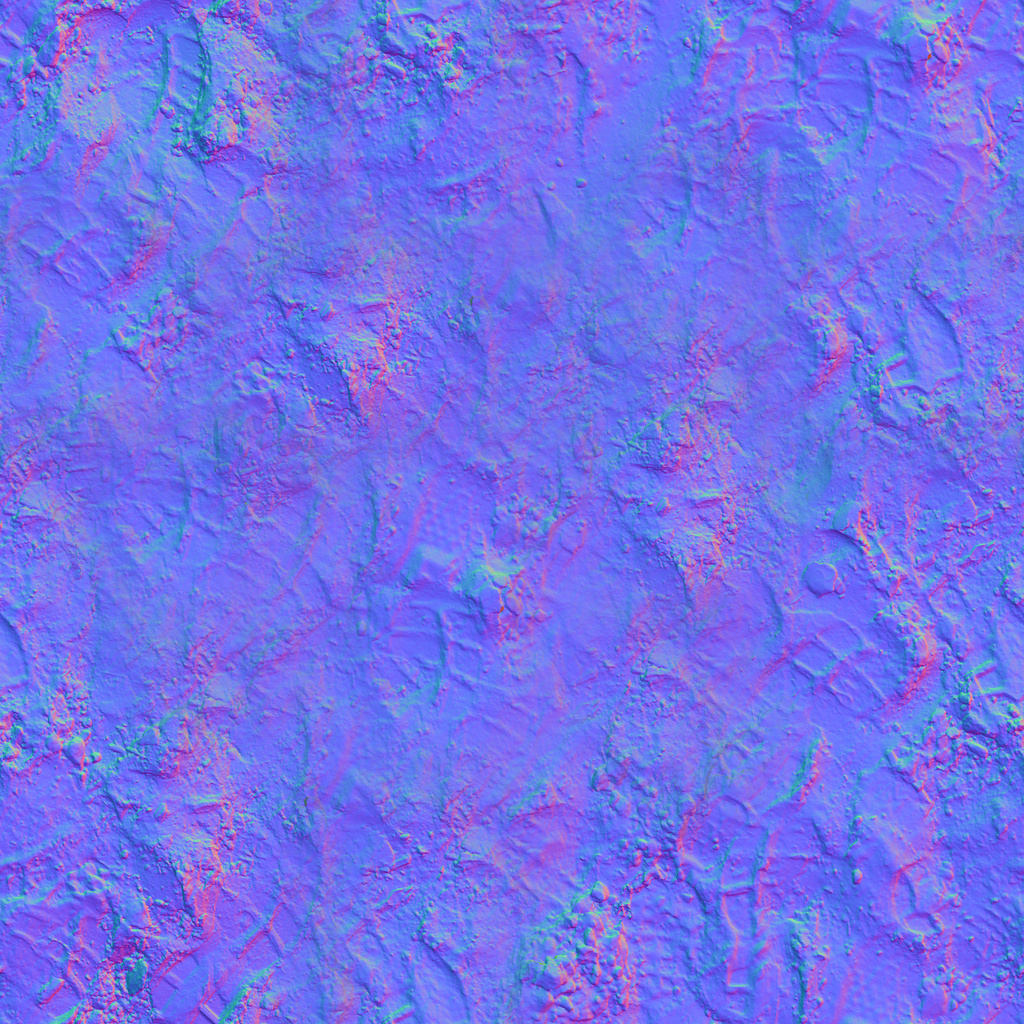
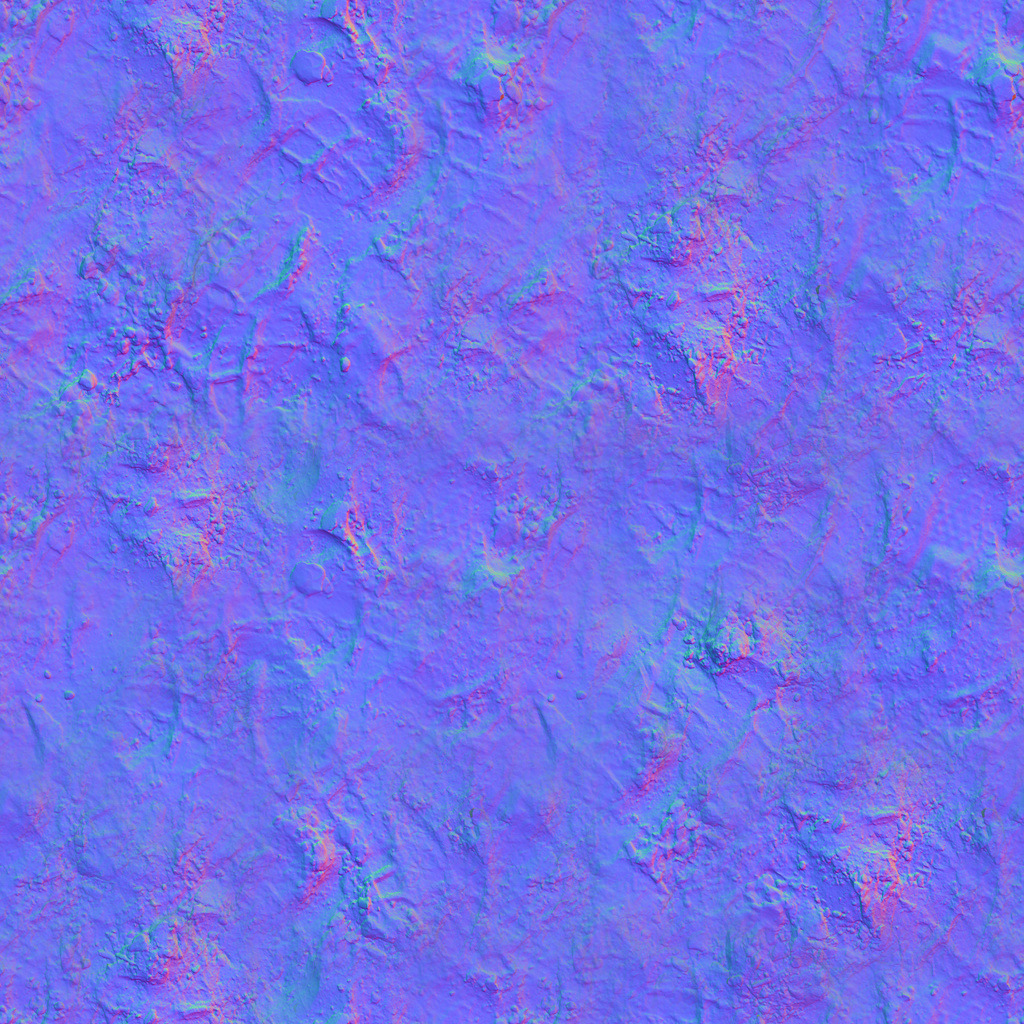
fix(strata): the desert and coastal sand base tiles without a seam (K4, open)
The sand_01 diffuse had a left-right seam ratio of 1.51 (1.43 top-bottom), so the desert and
coastal ground drew a lattice at each tile edge. The 1K diffuse and GL normal map now cross-fade
their edges with a half-shifted copy. The seam ratios drop to 0.95 and 1.13 on the diffuse, and
0.93 and 1.07 on the normal map. Only the edges changed. The credit records the change.

Proofs: KIT=desert and KIT=coastal pass on nvidia/turing. The sand-related specs pass (36 tests).
One judge read each. Desert ground goes from 2 to 3 and the other desert rows hold. Coastal holds
every row at 3. K4 stays open.

diff --git a/docs/PRDs/open-world/PRD-466-strata-terrain-threejs-integration.md b/docs/PRDs/open-world/PRD-466-strata-terrain-threejs-integration.md
@@ -451,6 +451,10 @@ locations when each phase is implemented; no future line numbers are asserted.
   point. Reason: a single level over the valley floor flooded the low ground and drew flat disks.
   Recipe change only. The kit's look code is unchanged. Basins were checked by a flood survey
   of the evaluated heightfield, with each basin inside its lake radius.
+- 2026-10-09 (implementation, K4): The sand base texture is seam-blended for tiling. The 1K diffuse
+  and the GL normal map cross-fade their edges with a half-shifted copy. Reason: the source diffuse
+  has a left-right seam ratio of 1.51, which draws a lattice on the desert and coastal ground.
+  Only the edges changed, and the credit records the change. The original file stays in git history.
 
 ## Execution Phases
 
@@ -1084,7 +1088,7 @@ kits. The browser GLB export stays the path for other engines and tools.
 - [x] K1: The forest kit ships in the packed `@threenative/terrain` and a freshly scaffolded game adopts it with no authoring package at runtime: copy, bake, add; terrain, instanced CC0 props and water draw; the character stands on the ground and a tree collider from the per-asset table stops it; no external request. proof: `pnpm exec vitest run packages/terrain/__tests__/starter-kit.spec.ts` plus `pnpm --filter strata-terrain-preview test:consumer`. — Evidence (2026-10-09, worktree 995b2e521 + round-5 water): `starter-kit.spec.ts` 4/4 and `forest-runtime.spec.ts` 14/14 pass; `test:consumer` exit 0 on the desktop (nvidia/turing; fresh scaffold; `installedAuthoringPackage: false`; handoff playtest pass; 5 of 5 worlds exported); committed `test:kit` exit 0 with the water (`waterLakes` 1, `waterRivers` 1, `groundError` 0.0101 m, `closestToTrunk` 0.489 m, no failed requests). Caveat: the river is counted but no capture shows it; the lake is visible in all four views.
 - [x] K2: The adopted forest kit holds 60 FPS: every benchmark view GPU p95 ≤ 14 ms and CPU frame p95 ≤ 16.7 ms on hardware WebGPU (RTX 2080, timestamp query, private Xvfb), cooked kit ≤ 25 MiB. proof: the fresh-game playtest's per-view budget observations. — Evidence (2026-10-09, a quiet pair, `KIT=forest pnpm --filter strata-terrain-preview test:kit`): both runs exit 0 and pass on nvidia/turing. Each started and ended inside the quiet gate (load1 ≤ 6, load5 ≤ 8). Run 1 CPU frame p95 / GPU p95 in ms: edge 8.0 / 8.2, ground 12.3 / 6.7, lake 9.1 / 4.5, overview 9.1 / 2.2. Run 2: edge 7.7 / 8.2, ground 8.4 / 4.2, lake 8.5 / 4.1, overview 8.5 / 2.3. Cooked forest 8,629,287 B (8.2 MiB). The earlier loaded runs (load 16 and above) stay as history: they failed the CPU bar, which is why the measurement needed a quiet window.
 - [ ] K3: The adopted forest kit's captures pass every rubric row (ground, trees and rocks, lighting and depth) by a fresh judge subagent, before/after posted on the PR. proof: fresh-game captures plus the judge verdict. — Open (2026-10-09): three fresh absolute-scoring Gemini calls (via gcodex, read-only, ephemeral) on the adopted kit's captures (ground, edge, lake, overview) returned per-row medians of 3 for ground in all four views, trees_rocks 3, 4, 3, 3 and lighting_depth 3, 3, 3, 3. The bar is 4 on every row, so K3 is not met. Tried: haze density doubled (overview fell to 2; reverted); foliage sky light 1 to 0.7 (no overview change; reverted). The critic's remaining levers are terrain albedo break-up, canopy contrast and ambient occlusion, and fog or sky exposure, each an art iteration.
-- [ ] K4: Coastal, alpine, desert and tundra kits meet K1–K3, the tundra kettles as an ice surface. proof: the same commands per world. — Partial (2026-10-09): the alpine kit bakes from its own source (`packages/terrain/starter/alpine`; the recipe is the preview's alpine terrain serialised with `Terrain.toJSON()`, evaluating to the survey's 1.2–654.5 m range with 90 boulders). `alpine-kit.spec.ts` 2/2: the validator accepts the world, the bake is deterministic. Tundra also bakes from its own recipe (`packages/terrain/starter/tundra`: two meltwater rivers and two kettle lakes written to `water.json`; `tundra-kit.spec.ts` 2/2). Coastal also bakes (`packages/terrain/starter/coastal`): the CC0 fir stands in for the licensed spruce, a substitution its README states, and the ocean is written to `water.json`; `coastal-kit.spec.ts` 2/2. Desert also bakes (`packages/terrain/starter/desert`): the preview's generated scrub is replaced by the CC0 boulder, a placeholder its README states, since the starter assets ship no CC0 shrub; `desert-kit.spec.ts` 2/2. All four worlds now bake from their own source. Alpine runtime is written and unit-proved: `alpine/world.ts` streams the bake through `WorldCells`, adds one heightfield and boulder sphere colliders within 60 m, and `alpine/sky.ts` lights the props; `alpine-runtime.spec.ts` 14/14 (mocked `WorldCells`, real rapier). The alpine scene and playtest pass: `KIT=alpine pnpm --filter strata-terrain-preview test:kit` exit 0 (2026-10-09, NVIDIA/turing, no failed requests), with a 4.16 m drive, a 0.079 m ground error, a 0.84 m stop at the boulder, 7 prop colliders and 78 resident boulder instances. The spawn is not authored: the alpine terrain is too steep to stand on near the centre (median slope 1.86 within 120 m), so `Alpine.ts` spawns beside the nearest boulder with gentle ground and a clear walk. Its captures are reviewed by eye, not judged: the overview and edge views show stretched texture tiling on steep faces and a box-shaped world edge. The desert kit's runtime, scene and playtest pass too: `KIT=desert pnpm --filter strata-terrain-preview test:kit` exit 0 (NVIDIA/turing, no failed requests), with a 3.95 m drive, a 0.015 m ground error, a 1.05 m stop at a placeholder boulder, 3 prop colliders near the spawn and 140 resident boulder instances. Its captures are also reviewed by eye, not judged: the far dunes show a regular texture tiling, and the sky still uses the alpine values. The tundra kit's runtime, scene and playtest pass too: `KIT=tundra pnpm --filter strata-terrain-preview test:kit` exit 0 (NVIDIA/turing, no failed requests), with a 3.17 m drive, a 0.069 m ground error, a 1.82 m stop at a boulder, 2 lakes and 2 rivers drawn, 70 boulder instances and 2 prop colliders near the spawn. Its captures are reviewed by eye, not judged: the kettles read dark teal rather than ice, and the rivers read as dark ribbons. So the tundra ice surface is not met yet. The coastal kit's runtime, scene and playtest pass too: `KIT=coastal pnpm --filter strata-terrain-preview test:kit` exit 0 (NVIDIA/turing, no failed requests), with a 4.04 m drive, a 0.065 m ground error, a 0.96 m stop at a fir, 80 tree instances and 3 prop colliders near the spawn. The sea is a flat sheet at the baked level, drawn with the lakes' water material, and it counts only while its mesh is in the scene. It reads as water in the overview, but it has no waves yet. The first version used the core spectral ocean, which simulates waves and draws no surface, so it drew nothing. Its captures are reviewed by eye, not judged. Not started: the tundra ice surface and the coastal waves. A first absolute judge pass ran one read-only gcodex Gemini call per kit, with four views each. It is one reading per kit, not a median, so it is not a pass: alpine ground 3, props 3, lighting 3, artifacts 2; desert ground 2, props 3, lighting 3, artifacts 2; tundra ground 2, props 3, lighting 3, water 2, artifacts 2; coastal ground 3, props 3, lighting 3, water 2, artifacts 3. The shared findings are texture tiling on the ground, stretched textures on steep faces, abrupt world edges, a stepped tundra shoreline and a coastal shore with no foam. K3 and K4 stay open. Update: the coastal sea now draws the installed spectral simulation with a horizon fade. Its proof passes (`KIT=coastal test:kit` exit 0, NVIDIA/turing), and one judge read scored water 3 and ground, props, lighting and artifacts 3. The tundra shoreline is cut where the water level crosses the ground, with a radial edge fade. Its proof passes (`KIT=tundra test:kit` exit 0), and one judge read scored water 2, with the same tiling as before. The circles from the bake still cut the sheet over low ground: for the near kettle, 66% to 69% of the ring is below the level, and the low ground connects over about 100,000 m². Fixing that is a recipe decision about the kettle levels and beds, so it is not made here. K4 stays open. Update (2026-10-09): the decision is made (see Decisions). The tundra kettle lakes now sit in closed basins off the river channels. Proof: `KIT=tundra pnpm --filter strata-terrain-preview test:kit` exit 0 on nvidia/turing, with `pass: true`, two lakes and two rivers. The spawn now has one prop collider, not two. One judge read scored water 3 and artifacts 3, with ground, props and lighting at 3. The water is still "plain, flat coloration with abrupt, unnatural shorelines", and the ground still shows the moss texture's crack lattice. Every tundra row is below 4, so K4 stays open.
+- [ ] K4: Coastal, alpine, desert and tundra kits meet K1–K3, the tundra kettles as an ice surface. proof: the same commands per world. — Partial (2026-10-09): the alpine kit bakes from its own source (`packages/terrain/starter/alpine`; the recipe is the preview's alpine terrain serialised with `Terrain.toJSON()`, evaluating to the survey's 1.2–654.5 m range with 90 boulders). `alpine-kit.spec.ts` 2/2: the validator accepts the world, the bake is deterministic. Tundra also bakes from its own recipe (`packages/terrain/starter/tundra`: two meltwater rivers and two kettle lakes written to `water.json`; `tundra-kit.spec.ts` 2/2). Coastal also bakes (`packages/terrain/starter/coastal`): the CC0 fir stands in for the licensed spruce, a substitution its README states, and the ocean is written to `water.json`; `coastal-kit.spec.ts` 2/2. Desert also bakes (`packages/terrain/starter/desert`): the preview's generated scrub is replaced by the CC0 boulder, a placeholder its README states, since the starter assets ship no CC0 shrub; `desert-kit.spec.ts` 2/2. All four worlds now bake from their own source. Alpine runtime is written and unit-proved: `alpine/world.ts` streams the bake through `WorldCells`, adds one heightfield and boulder sphere colliders within 60 m, and `alpine/sky.ts` lights the props; `alpine-runtime.spec.ts` 14/14 (mocked `WorldCells`, real rapier). The alpine scene and playtest pass: `KIT=alpine pnpm --filter strata-terrain-preview test:kit` exit 0 (2026-10-09, NVIDIA/turing, no failed requests), with a 4.16 m drive, a 0.079 m ground error, a 0.84 m stop at the boulder, 7 prop colliders and 78 resident boulder instances. The spawn is not authored: the alpine terrain is too steep to stand on near the centre (median slope 1.86 within 120 m), so `Alpine.ts` spawns beside the nearest boulder with gentle ground and a clear walk. Its captures are reviewed by eye, not judged: the overview and edge views show stretched texture tiling on steep faces and a box-shaped world edge. The desert kit's runtime, scene and playtest pass too: `KIT=desert pnpm --filter strata-terrain-preview test:kit` exit 0 (NVIDIA/turing, no failed requests), with a 3.95 m drive, a 0.015 m ground error, a 1.05 m stop at a placeholder boulder, 3 prop colliders near the spawn and 140 resident boulder instances. Its captures are also reviewed by eye, not judged: the far dunes show a regular texture tiling, and the sky still uses the alpine values. The tundra kit's runtime, scene and playtest pass too: `KIT=tundra pnpm --filter strata-terrain-preview test:kit` exit 0 (NVIDIA/turing, no failed requests), with a 3.17 m drive, a 0.069 m ground error, a 1.82 m stop at a boulder, 2 lakes and 2 rivers drawn, 70 boulder instances and 2 prop colliders near the spawn. Its captures are reviewed by eye, not judged: the kettles read dark teal rather than ice, and the rivers read as dark ribbons. So the tundra ice surface is not met yet. The coastal kit's runtime, scene and playtest pass too: `KIT=coastal pnpm --filter strata-terrain-preview test:kit` exit 0 (NVIDIA/turing, no failed requests), with a 4.04 m drive, a 0.065 m ground error, a 0.96 m stop at a fir, 80 tree instances and 3 prop colliders near the spawn. The sea is a flat sheet at the baked level, drawn with the lakes' water material, and it counts only while its mesh is in the scene. It reads as water in the overview, but it has no waves yet. The first version used the core spectral ocean, which simulates waves and draws no surface, so it drew nothing. Its captures are reviewed by eye, not judged. Not started: the tundra ice surface and the coastal waves. A first absolute judge pass ran one read-only gcodex Gemini call per kit, with four views each. It is one reading per kit, not a median, so it is not a pass: alpine ground 3, props 3, lighting 3, artifacts 2; desert ground 2, props 3, lighting 3, artifacts 2; tundra ground 2, props 3, lighting 3, water 2, artifacts 2; coastal ground 3, props 3, lighting 3, water 2, artifacts 3. The shared findings are texture tiling on the ground, stretched textures on steep faces, abrupt world edges, a stepped tundra shoreline and a coastal shore with no foam. K3 and K4 stay open. Update: the coastal sea now draws the installed spectral simulation with a horizon fade. Its proof passes (`KIT=coastal test:kit` exit 0, NVIDIA/turing), and one judge read scored water 3 and ground, props, lighting and artifacts 3. The tundra shoreline is cut where the water level crosses the ground, with a radial edge fade. Its proof passes (`KIT=tundra test:kit` exit 0), and one judge read scored water 2, with the same tiling as before. The circles from the bake still cut the sheet over low ground: for the near kettle, 66% to 69% of the ring is below the level, and the low ground connects over about 100,000 m². Fixing that is a recipe decision about the kettle levels and beds, so it is not made here. K4 stays open. Update (2026-10-09): the decision is made (see Decisions). The tundra kettle lakes now sit in closed basins off the river channels. Proof: `KIT=tundra pnpm --filter strata-terrain-preview test:kit` exit 0 on nvidia/turing, with `pass: true`, two lakes and two rivers. The spawn now has one prop collider, not two. One judge read scored water 3 and artifacts 3, with ground, props and lighting at 3. The water is still "plain, flat coloration with abrupt, unnatural shorelines", and the ground still shows the moss texture's crack lattice. Every tundra row is below 4, so K4 stays open. Update (2026-10-09, sand): the desert and coastal sand base is seam-blended (see Decisions). Proofs: `KIT=desert` and `KIT=coastal` pass on nvidia/turing. One judge read each. Desert: ground 3 (was 2), props 3, lighting 3, artifacts 2 (unchanged); the far dunes show softer weave and no new artifacts in the captures. Coastal: every row 3, as before. K4 stays open.
 - [x] K5: An agent asked for "a W terrain for my game" reaches a playing world from the installed docs and capability search alone. proof: `test:consumer` capability lookup plus one cold-agent run recorded on the PR. — Evidence (2026-10-09): cold run 7636a5ecbf1f0d4e334904fa0a2f5689 (opencode-go/deepseek-v4.1-flash, empty directory, packed docs only, zero reads of the ThreeNative checkout) scaffolded the minimal template, copied the forest kit, baked 4,826 placements, and passed `typecheck` and `build:web`. Its `forest-stand` playtest passed on nvidia/turing (grounded, zero diagnostics, moved 2.88 m), and the screenshot shows the character on grass among firs. "A W terrain" was read as the forest kit. Capability lookup comes from `test:consumer` (4 lookups), not from the cold run. A first cold attempt (opencode/space-bunny-free) timed out after the bake and is kept as a partial run. Documentation gaps the run reported: create-threenative needs `three` and `@threenative/assets` installed first; terrain-authoring.md's `await addForest` in `Scene.load` conflicts with the synchronous `Scene.enter`; the minimal template's shadow frustum fits a 36 m arena; the recipe's lake covers the template spawn, and no doc explains choosing a dry spawn; a component assertion already equal to its expected value needs `allowTrivial`.
 
 #### Phase 4 forest kit, round 1 (2026-10-05; K1 rows green, boxes open until the committed `test:kit` reruns)
